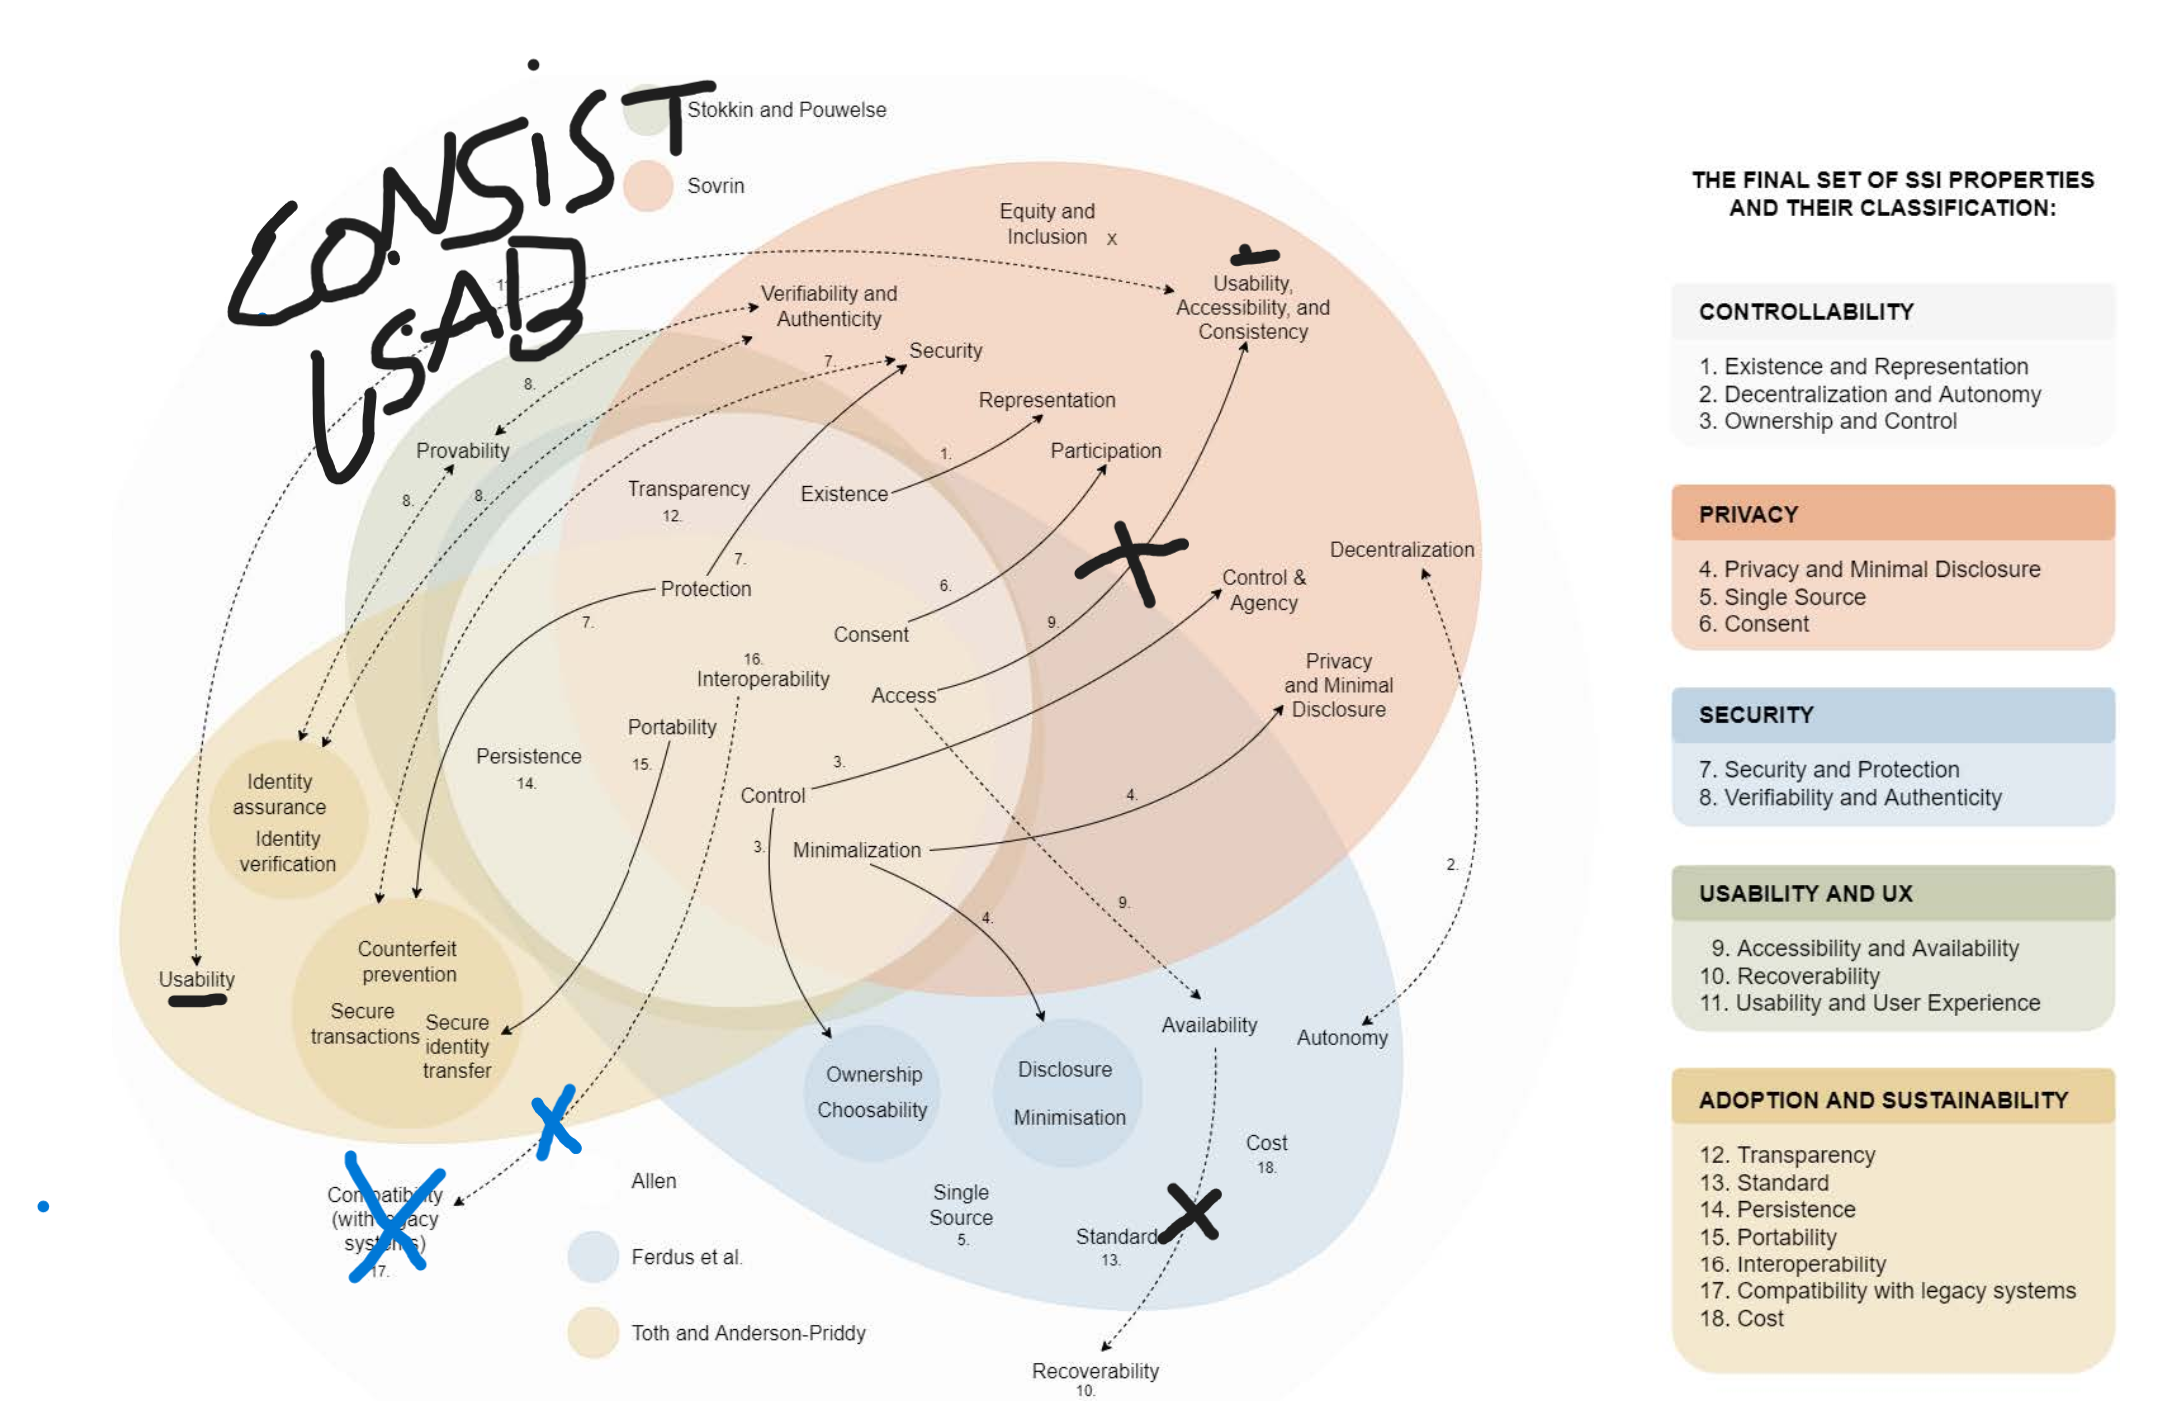
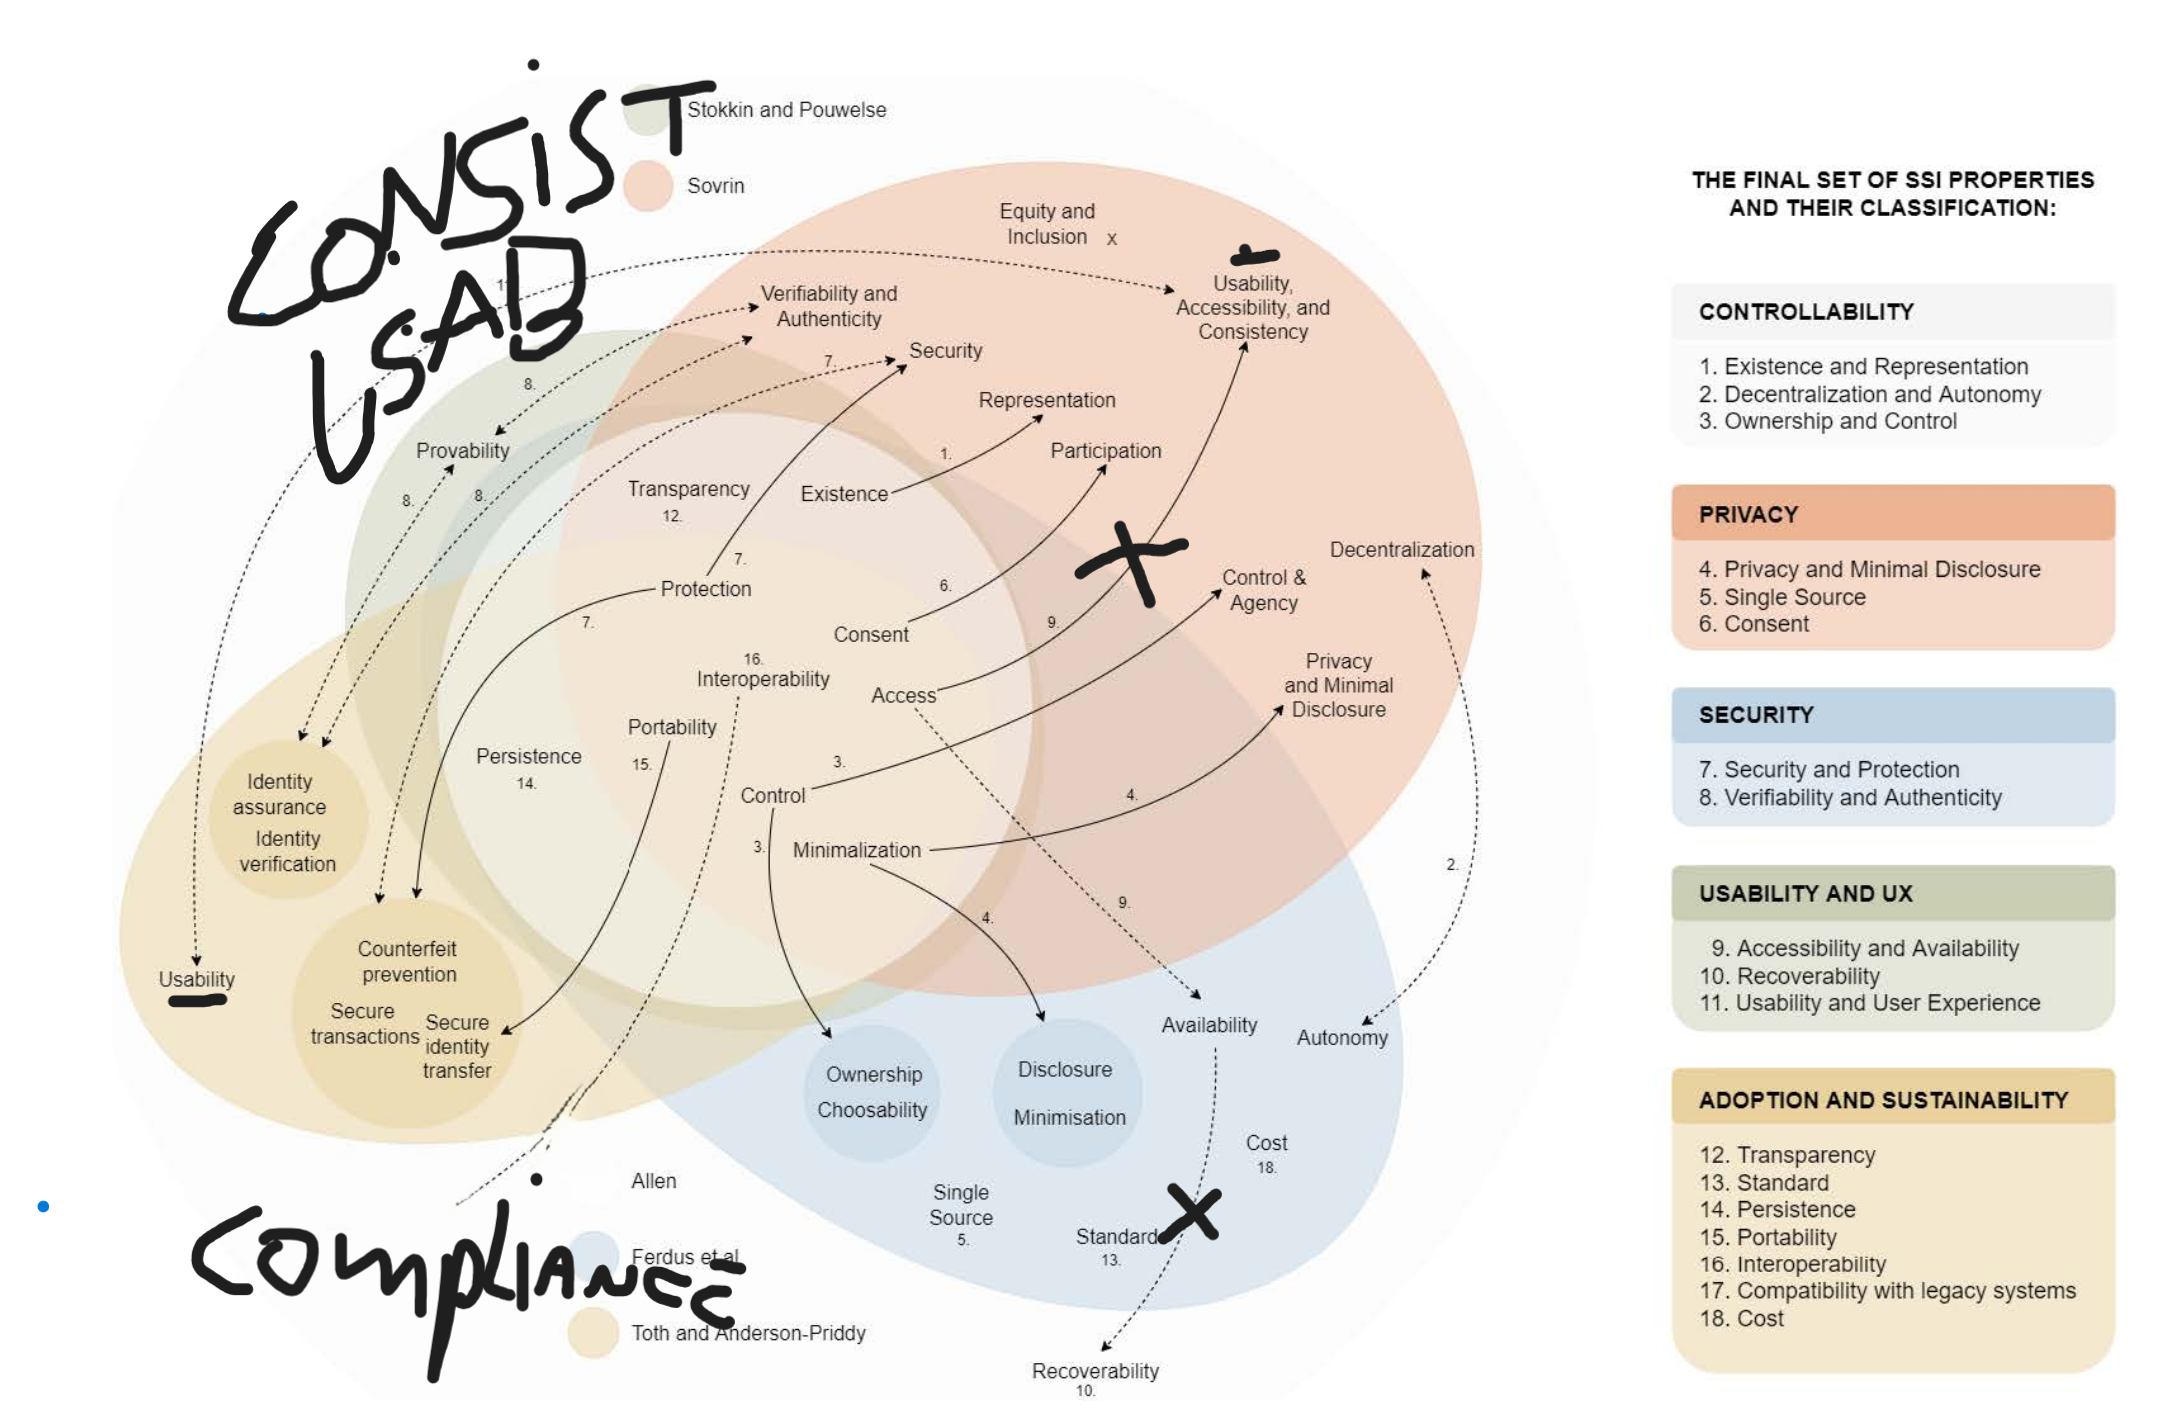
Methodology.

Changed region(s): [[0.0621, 0.8102, 0.3417, 0.966], [0.2485, 0.7479, 0.2796, 0.8414]]

diff --git a/Tables/Principles_semplification.html b/Tables/Principles_semplification.html
@@ -198,7 +198,7 @@
                 <td class="check">✔</td>
             </tr>
             <tr>
-                <td>Interoperability</td>
+                <td>Interoperability, Compliance</td>
                 <td class="check">Portability</td>
                 <td></td>
                 <td class="check">Flexibility</td>
@@ -211,11 +211,11 @@
                 <td class="check">✔</td>
                 <td class="check">Autonomy</td>
                 <td class="check">Usability</td>
-                <td class="check">Technology</td>
+                <td class="check">Technology, Compliance</td>
                 <td class="check">Portability</td>
                 <td class="check">✔</td>
                 <td class="check">✔</td>
-                <td class="check">Adoption Sustainability</td>
+                <td class="check">Adoption, Sustainability</td>
                 <td class="check">✔</td>
             </tr>
             <tr>
@@ -573,27 +573,6 @@
                 <td></td>
                 <td></td>
                 <td></td>
-                <td></td>
-            </tr>
-            <tr>
-                <td>Compliance</td>
-                <td></td>
-                <td></td>
-                <td></td>
-                <td></td>
-                <td></td>
-                <td></td>
-                <td></td>
-                <td></td>
-                <td></td>
-                <td></td>
-                <td></td>
-                <td></td>
-                <td class="check">Security<br>Compliance</td>
-                <td></td>
-                <td></td>
-                <td></td>
-                <td class="check">Adoption Sustainability</td>
                 <td></td>
             </tr>
             <tr>

diff --git a/README.md b/README.md
@@ -28,49 +28,49 @@ The peculiarity of Figure 1 is its depiction of Allen's principles as defined in
 ![Allen Principles Schema (Local)](Images/Allen_principles/Allen_principles_schema.png)
 *Figure 1: SSI properties mapped within the general SSI process flow.[^allen]*
 
-#### 1.1.1 Related works
-
-Several works by academics and industry experts have redefined and extended the original principles of Self-Sovereign Identity. Past contributions have sought to define a comprehensive set of principles for SSI. We collected works published between 2016, the year the term SSI was coined, and 2024. Some works extend the original list of principles, while others contribute through the categorization of these principles. Table 1 summarizes key contributions from the literature and their corresponding properties. Each row represents an SSI property, while the columns list the authors. Differences in naming conventions can be observed across different authors.
-
-[Click to view the table 1.](https://cristianlepore.github.io/Self-Sovereign-Identity/Tables/Principles.html) *Comparison of identified properties in various sources.*
-
 ### 1.2 Analysis
 
-Table 1 demonstrates significant disagreement regarding the properties of SSI. Despite being similar to the work in [^cucko], our contribution departs from it by incorporating a broader literature review (x5 the refereces from [^cucko]) and employing a clustering algorithm to achieve consensus on properties and classification. Specifically, our study analyzes and classifies 51 properties from 18 works to identify a subset of highly cited principles.
+Past tentative to converge to a list of SSI principles demonstrated significant disagreement regarding the properties of SSI. Despite being similar to the work in [^cucko], our contribution departs from it by incorporating a broader literature review (x5 the refereces from [^cucko]) and employing a clustering algorithm to achieve consensus on properties and classification., Furthermore, our objective is not to classify SSI principles, rather it is to set the ground for an assessment model of identity solutions. To the best of our knowlegde, this is the first time this type of exercise is done in a paper from academia. 
 
-Additionally, a questionnaire addresses three key objectives: I) Investigate the identified SSI properties and evaluate their importance. II) Identify the most and least critical properties, including non-repudiable ones. III) Validate the classification and grouping of properties.
+Specifically, our study analyzes and classifies 51 properties from 18 works to identify a subset of highly cited principles.Additionally, a questionnaire addresses three key objectives: I) Investigate the identified SSI properties and evaluate their importance. II) Identify the most and least critical properties, including non-repudiable ones. III) Validate the classification and grouping of properties.
 
 Our study gathers insights from experts in the Decentralized and Self-Sovereign Identity Management field, spanning diverse roles and domains, including Computer Security and AI. These experts were interviewed during the ARES Conference 2024, held from July 29 to August 2 in Vienna, Austria.
 
-##### 1.2.1 Methodology
+#### 1.2.1 Methodology
 
 A systematic review offers a structured, comprehensive overview of a research field through the following steps.[^lepore][^badzek][^cushman]
 
-*1. Defining research questions.* We formulated research question RQ1, as introduced in the [introduction](#a-model-to-assess-digital-identity-solutions). To address *RQ1* (the focus of [Section 1](#1-self-sovereign-identity)), we generated the following search strings based on relevant keywords:
+*1. Defining research questions.* We formulated research question RQ1 to explore past works on SSI principles, as introduced in the [introduction](#a-model-to-assess-digital-identity-solutions). To address RQ1 (the focus of [Section 1](#1-self-sovereign-identity)),  we generated the following search strings based on relevant keywords:
 
 - *SSI AND principles*
 - *Self-Sovereign Identity AND properties*
 - *SSI AND definition*
 
-Keywords were refined to optimize search results, and wildcards were avoided for clarity (e.g., "SSI" and "Self-Sovereign Identity").[^lepore]
+Keywords were refined to optimize search results and to avoid wildcards (e.g., "SSI" and "Self-Sovereign Identity").[^lepore] Keywords were shuffled to gather more results.
 
-*2. Searching.* The search strings were used to identify articles containing relevant keywords in titles and abstracts across multiple academic databases, including ACM, ArXiv, IEEE Xplore, Scopus, and meta-search engines like Google Scholar. This yielded 47 initial results.
+*2. Searching.* The search strings were used to identify articles containing relevant keywords in titles and abstracts across multiple academic databases, including ACM, ArXiv, IEEE Xplore, Scopus, and meta-search engines like Google Scholar. This process yielded 47 initial results.
 
-*3. Screening.* Abstracts and conclusions were screened to exclude irrelevant results based on inclusion/exclusion criteria such as publication year, originality, and if they presented a taxonomy of SSI principles. Duplicate results were removed, resulting in 18 articles containing a total of 51 features for SSI. Despite being an emerging topic, the selection represents a significant portion of the literature on SSI principles from 2016 to 2024.
+*3. Screening.* Abstracts and conclusions were screened to exclude irrelevant results based on inclusion/exclusion criteria such as publication year, originality, and whether they presented a taxonomy of SSI principles. Duplicate results were removed, resulting in 18 articles for SSI. Despite being an emerging topic, the selection represents a significant portion of the literature on SSI principles from 2016 to 2024.
 
-*4. Classification.* The selected articles were analyzed to extract properties and their definitions as presented by the authors. We gathered results in a table containing the papers and corresponding features of SSI.
+*4. Classification.* The selected articles were analyzed to extract properties and their definitions as presented by the authors. We compiled the results into a table containing the papers and corresponding features of SSI.
 
-*5. Data extraction.* Some properties shared similar meanings but were labeled differently across papers. Properties with same meanings were combined, while other eliminated using heuristics.
+*5. Data extraction.* Some properties shared similar meanings but had different labels across papers. Properties with identical meanings were combined, while others were eliminated using heuristics.
 
-*6. Clustering.* The identified properties were clustered based on their labels testing methods such as K-Means, Greedy, and Graph Theory.
+*6. Clustering.* The identified properties were clustered based on their labels, testing methods such as K-Means, Greedy, and Graph Theory.
 
 *7. Refining.* To validate the selection process and finalize the list of properties (used in the questionnaire), expert interviews were conducted. These discussions reviewed and justified the inclusion or exclusion of specific properties.
 
 *8. Final list.* The final step involved creating a definitive list of properties, accompanied by precise definitions for each.
 
-#### 1.3 Results
+Steps 1 and 2 are self-explanatory. In the next section, we describe the outcome of the remaining steps, starting from step 3 (Classification) onward. Step 3 also serves as the foundation for Related Works.
 
-Table 1 shows the results of the analysis, including the similarities and differences in naming between defined sets of properties. Each Table row represents one property according to the similarity of the collected definitions, while differences in naming can be observed between different authors.
+#### 1.2.2 Related works
+
+Several works by academics and industry experts have redefined and extended the original principles of Self-Sovereign Identity. Past contributions have sought to define a comprehensive set of principles for SSI. We collected works published between 2016, the year the term SSI was coined, and 2024. Some works extend the original list of principles, while others contribute through the categorization of these principles. Table 1 summarizes key contributions from the literature and their corresponding properties. Each row represents an SSI property, while the columns list the authors. Differences in naming conventions can be observed across different authors.
+
+[Click to view the table 1.](https://cristianlepore.github.io/Self-Sovereign-Identity/Tables/Principles.html) *Comparison of identified properties in various sources.*
+
+### 1.3 Classification
 
 [Click to view the table 2.](https://cristianlepore.github.io/Self-Sovereign-Identity/Tables/Principles_classification.html) *Comparison of identified properties and correspondiing taxonomy from various sources.*
 
@@ -101,7 +101,6 @@ Tra gli altri principi, Cost è il più citato. 6 volte
 6
 1
 1
-1
 2
 1
 1
@@ -114,7 +113,7 @@ Tra gli altri principi, Cost è il più citato. 6 volte
 5
 5
 3
-Media 2.1 per i 26 principi rimanenti. 12%
+Media 2.1 per i 25 principi rimanenti. 9%
 Solo 4 principi con 5 o 6 citazioni in papers. Nessuno 4, la maggiorparte 1, 2 e pochi 3.
 
 # References
